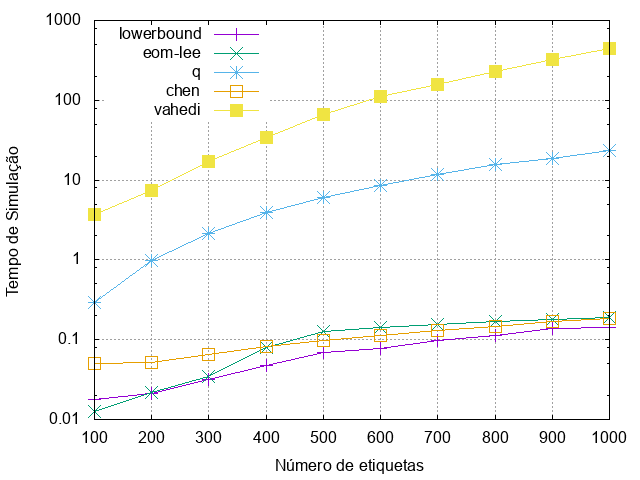
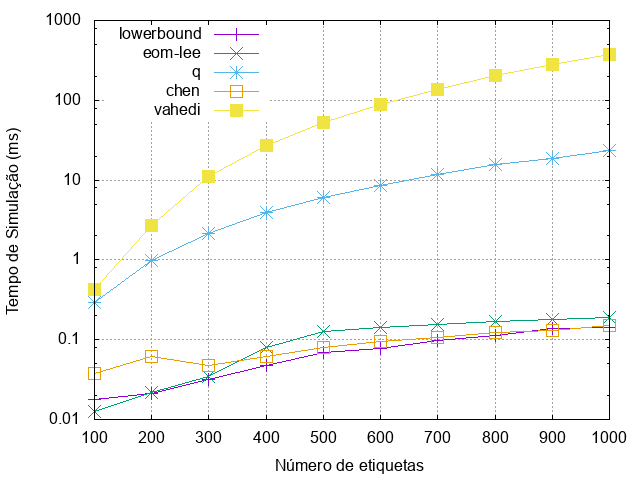
update chats

diff --git a/SimuladorRFID/src/simulador/Simulador.java b/SimuladorRFID/src/simulador/Simulador.java
@@ -93,8 +93,9 @@ public class Simulador {
 			double pc = 1 - pe - ps;
 			previous = next;
 			//double a = (fac(L)/fac(E)*fac(S)*fac(C));
-			double a = fac(L)/facMult(new int[]{E,S,C});
-			next = a*Math.pow(pe, E)*Math.pow(ps, S)*Math.pow(pc, C);
+			//double a = fac(L)/facMult(new int[]{E,S,C});
+			double a = Math.pow(pe, E)*Math.pow(ps, S)*Math.pow(pc, C);
+			next = fatSimples(L, E, S, C, a);
 			n++;
 			this.total_interacao[posicao]++;
 		}
@@ -138,6 +139,31 @@ public class Simulador {
 		
 		return n - 2;
 	}
+	
+	private double fatSimples(int a, int b, int c, int d, double m){
+        double result = m;
+
+        while(a > 1) {
+            result = result * a;
+            a = a - 1;
+            if (b > 1) {
+                result = result / b;
+                b = b - 1;
+            }
+
+            if(c > 1) {
+                result = result / c;
+                c = c - 1;
+            }
+
+            if(d > 1) {
+                result = result / d;
+                d = d - 1;
+            }
+        }
+
+        return result;
+    }
 	
 	private double facMult(int[] nums){
 		double retorno = 1.0;
@@ -208,7 +234,7 @@ public class Simulador {
 					tan_quadro = eomlee(colisao,sucesso,tan_quadro);
 				break;
 				case("chen"):
-					tan_quadro = chen(vazio,sucesso,colisao,posicao) - sucesso;
+					tan_quadro = chen(vazio,sucesso,colisao,posicao);
 				break;
 				case("vahedi"):
 					tan_quadro = vahedi(vazio,sucesso,colisao) - sucesso;
@@ -288,7 +314,7 @@ public class Simulador {
 
 	public String gerar_arquivo(){
 
-		String nome_arquivo = "./results/" + estimador + "_" + qtd_inicial_etiquetas + "_" + incremeto + "_"+ max_etiquetas + "_"+ repeticao + "_"+ quadro_inicial + ".txt";
+		String nome_arquivo = estimador + "_" + qtd_inicial_etiquetas + "_" + incremeto + "_"+ max_etiquetas + "_"+ repeticao + "_"+ quadro_inicial + ".txt";
 
 		try {
 			FileWriter writer = new FileWriter(nome_arquivo);

diff --git a/SimuladorRFID/src/simulador/Principal.java b/SimuladorRFID/src/simulador/Principal.java
@@ -19,21 +19,21 @@ public class Principal {
 //		System.out.println(eomlee.toString());
 //		System.out.println("tempo eomlee: " + ((System.currentTimeMillis()-t0)) + " miliseg\n");
 //		
-//		System.out.println("Chen");
-//		Simulador chen = new Simulador("chen", 100, 100, 1000, 2000, 64);
-//		System.out.println(chen.toString());
-//		System.out.println("tempo chen: " + ((System.currentTimeMillis()-t0)) + " miliseg\n");
+		System.out.println("Chen");
+		Simulador chen = new Simulador("chen", 100, 100, 1000, 2000, 64);
+		System.out.println(chen.toString());
+		System.out.println("tempo chen: " + ((System.currentTimeMillis()-t0)) + " miliseg\n");
 		
 //		System.out.println("Q");
 //		Simulador algQ = new Simulador("q", 100, 100, 1000, 2000, 64);
 //		System.out.println(algQ.toString());
 //		System.out.println("tempo q: " + (System.currentTimeMillis()-t0) + " miliseg\n");
 //		
-		System.out.println("Vahedi");
-		Simulador vahedi = new Simulador("vahedi", 100, 100, 1000, 2000, 64);
-		System.out.println(vahedi.toString());
-		System.out.println("tempo vahedi: " + (System.currentTimeMillis()-t0) + " miliseg\n");
-		
+//		System.out.println("Vahedi");
+//		Simulador vahedi = new Simulador("vahedi", 100, 100, 1000, 2000, 64);
+//		System.out.println(vahedi.toString());
+//		System.out.println("tempo vahedi: " + (System.currentTimeMillis()-t0) + " miliseg\n");
+//		
 //		Simulador[] simuladores = {lowerbound, eomlee, chen, vahedi};
 //		plot.grafico(simuladores,"slots");
 //		plot.grafico(simuladores,"colisao");
